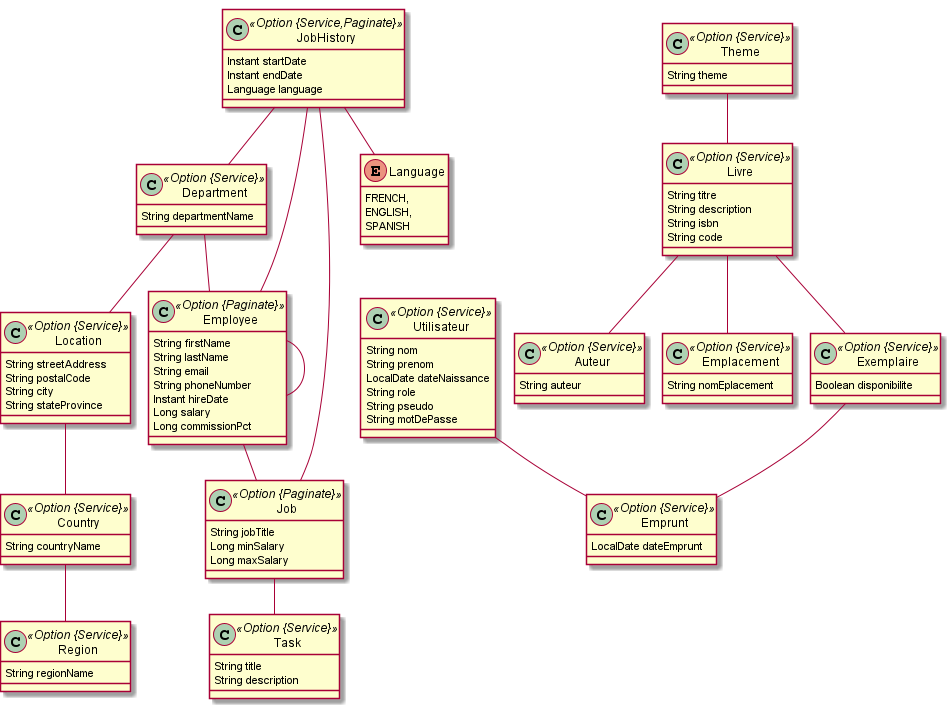
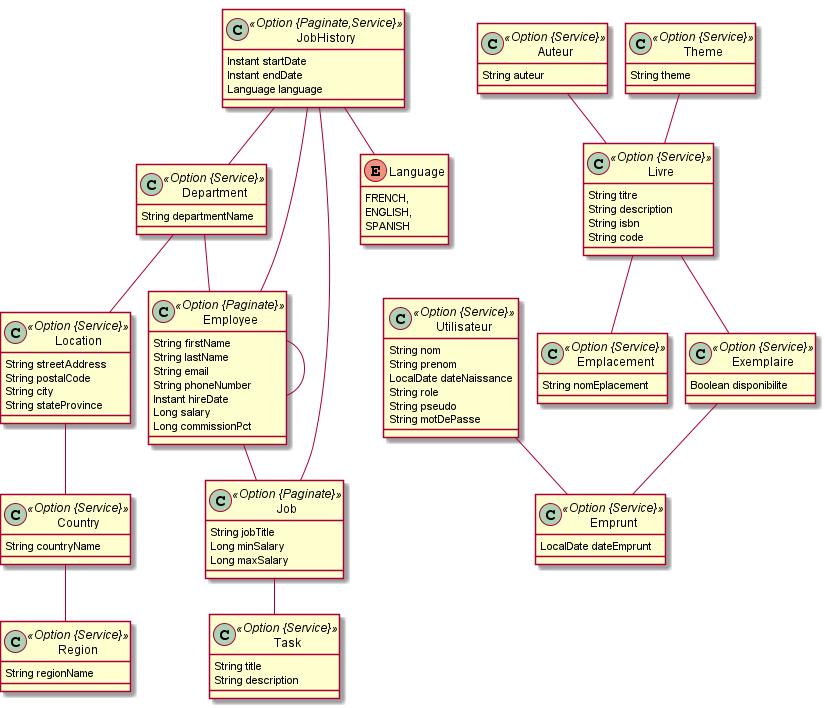
bdd change

diff --git a/src/main/webapp/app/entities/livre/livre-update.component.ts b/src/main/webapp/app/entities/livre/livre-update.component.ts
@@ -8,14 +8,14 @@ import { map } from 'rxjs/operators';
 
 import { ILivre, Livre } from 'app/shared/model/livre.model';
 import { LivreService } from './livre.service';
-import { IAuteur } from 'app/shared/model/auteur.model';
-import { AuteurService } from 'app/entities/auteur/auteur.service';
 import { IEmplacement } from 'app/shared/model/emplacement.model';
 import { EmplacementService } from 'app/entities/emplacement/emplacement.service';
 import { ITheme } from 'app/shared/model/theme.model';
 import { ThemeService } from 'app/entities/theme/theme.service';
+import { IAuteur } from 'app/shared/model/auteur.model';
+import { AuteurService } from 'app/entities/auteur/auteur.service';
 
-type SelectableEntity = IAuteur | IEmplacement | ITheme;
+type SelectableEntity = IEmplacement | ITheme | IAuteur;
 
 @Component({
   selector: 'jhi-livre-update',
@@ -23,9 +23,9 @@ type SelectableEntity = IAuteur | IEmplacement | ITheme;
 })
 export class LivreUpdateComponent implements OnInit {
   isSaving = false;
-  auteurs: IAuteur[] = [];
   emplacements: IEmplacement[] = [];
   themes: ITheme[] = [];
+  auteurs: IAuteur[] = [];
 
   editForm = this.fb.group({
     id: [],
@@ -33,16 +33,16 @@ export class LivreUpdateComponent implements OnInit {
     description: [null, [Validators.required]],
     isbn: [null, [Validators.required]],
     code: [null, [Validators.required]],
-    auteur: [],
     emplacement: [],
     theme: [],
+    auteur: [],
   });
 
   constructor(
     protected livreService: LivreService,
-    protected auteurService: AuteurService,
     protected emplacementService: EmplacementService,
     protected themeService: ThemeService,
+    protected auteurService: AuteurService,
     protected activatedRoute: ActivatedRoute,
     private fb: FormBuilder
   ) {}
@@ -50,28 +50,6 @@ export class LivreUpdateComponent implements OnInit {
   ngOnInit(): void {
     this.activatedRoute.data.subscribe(({ livre }) => {
       this.updateForm(livre);
-
-      this.auteurService
-        .query({ filter: 'livre-is-null' })
-        .pipe(
-          map((res: HttpResponse<IAuteur[]>) => {
-            return res.body || [];
-          })
-        )
-        .subscribe((resBody: IAuteur[]) => {
-          if (!livre.auteur || !livre.auteur.id) {
-            this.auteurs = resBody;
-          } else {
-            this.auteurService
-              .find(livre.auteur.id)
-              .pipe(
-                map((subRes: HttpResponse<IAuteur>) => {
-                  return subRes.body ? [subRes.body].concat(resBody) : resBody;
-                })
-              )
-              .subscribe((concatRes: IAuteur[]) => (this.auteurs = concatRes));
-          }
-        });
 
       this.emplacementService
         .query({ filter: 'livre-is-null' })
@@ -96,6 +74,8 @@ export class LivreUpdateComponent implements OnInit {
         });
 
       this.themeService.query().subscribe((res: HttpResponse<ITheme[]>) => (this.themes = res.body || []));
+
+      this.auteurService.query().subscribe((res: HttpResponse<IAuteur[]>) => (this.auteurs = res.body || []));
     });
   }
 
@@ -106,9 +86,9 @@ export class LivreUpdateComponent implements OnInit {
       description: livre.description,
       isbn: livre.isbn,
       code: livre.code,
-      auteur: livre.auteur,
       emplacement: livre.emplacement,
       theme: livre.theme,
+      auteur: livre.auteur,
     });
   }
 
@@ -134,9 +114,9 @@ export class LivreUpdateComponent implements OnInit {
       description: this.editForm.get(['description'])!.value,
       isbn: this.editForm.get(['isbn'])!.value,
       code: this.editForm.get(['code'])!.value,
-      auteur: this.editForm.get(['auteur'])!.value,
       emplacement: this.editForm.get(['emplacement'])!.value,
       theme: this.editForm.get(['theme'])!.value,
+      auteur: this.editForm.get(['auteur'])!.value,
     };
   }
 

diff --git a/src/main/webapp/app/entities/livre/livre-update.component.html b/src/main/webapp/app/entities/livre/livre-update.component.html
@@ -60,14 +60,6 @@
                 </div>
 
                 <div class="form-group">
-                    <label class="form-control-label" jhiTranslate="jhdemoApp.livre.auteur" for="field_auteur">Auteur</label>
-                    <select class="form-control" id="field_auteur" name="auteur" formControlName="auteur">
-                        <option [ngValue]="null"></option>
-                        <option [ngValue]="auteurOption.id === editForm.get('auteur')!.value?.id ? editForm.get('auteur')!.value : auteurOption" *ngFor="let auteurOption of auteurs; trackBy: trackById">{{ auteurOption.id }}</option>
-                    </select>
-                </div>
-
-                <div class="form-group">
                     <label class="form-control-label" jhiTranslate="jhdemoApp.livre.emplacement" for="field_emplacement">Emplacement</label>
                     <select class="form-control" id="field_emplacement" name="emplacement" formControlName="emplacement">
                         <option [ngValue]="null"></option>
@@ -80,6 +72,14 @@
                     <select class="form-control" id="field_theme" name="theme" formControlName="theme">
                         <option [ngValue]="null"></option>
                         <option [ngValue]="themeOption.id === editForm.get('theme')!.value?.id ? editForm.get('theme')!.value : themeOption" *ngFor="let themeOption of themes; trackBy: trackById">{{ themeOption.id }}</option>
+                    </select>
+                </div>
+
+                <div class="form-group">
+                    <label class="form-control-label" jhiTranslate="jhdemoApp.livre.auteur" for="field_auteur">Auteur</label>
+                    <select class="form-control" id="field_auteur" name="auteur" formControlName="auteur">
+                        <option [ngValue]="null"></option>
+                        <option [ngValue]="auteurOption.id === editForm.get('auteur')!.value?.id ? editForm.get('auteur')!.value : auteurOption" *ngFor="let auteurOption of auteurs; trackBy: trackById">{{ auteurOption.id }}</option>
                     </select>
                 </div>
             </div>

diff --git a/src/main/webapp/app/entities/livre/livre.component.html b/src/main/webapp/app/entities/livre/livre.component.html
@@ -27,9 +27,9 @@
                     <th scope="col" ><span jhiTranslate="jhdemoApp.livre.description">Description</span></th>
                     <th scope="col" ><span jhiTranslate="jhdemoApp.livre.isbn">Isbn</span></th>
                     <th scope="col" ><span jhiTranslate="jhdemoApp.livre.code">Code</span></th>
-                    <th scope="col" ><span jhiTranslate="jhdemoApp.livre.auteur">Auteur</span></th>
                     <th scope="col" ><span jhiTranslate="jhdemoApp.livre.emplacement">Emplacement</span></th>
                     <th scope="col" ><span jhiTranslate="jhdemoApp.livre.theme">Theme</span></th>
+                    <th scope="col" ><span jhiTranslate="jhdemoApp.livre.auteur">Auteur</span></th>
                     <th scope="col"></th>
                 </tr>
             </thead>
@@ -41,11 +41,6 @@
                     <td>{{ livre.isbn }}</td>
                     <td>{{ livre.code }}</td>
                     <td>
-                        <div *ngIf="livre.auteur">
-                            <a [routerLink]="['/auteur', livre.auteur?.id, 'view']" >{{ livre.auteur?.id }}</a>
-                        </div>
-                    </td>
-                    <td>
                         <div *ngIf="livre.emplacement">
                             <a [routerLink]="['/emplacement', livre.emplacement?.id, 'view']" >{{ livre.emplacement?.id }}</a>
                         </div>
@@ -53,6 +48,11 @@
                     <td>
                         <div *ngIf="livre.theme">
                             <a [routerLink]="['/theme', livre.theme?.id, 'view']" >{{ livre.theme?.id }}</a>
+                        </div>
+                    </td>
+                    <td>
+                        <div *ngIf="livre.auteur">
+                            <a [routerLink]="['/auteur', livre.auteur?.id, 'view']" >{{ livre.auteur?.id }}</a>
                         </div>
                     </td>
                     <td class="text-right">

diff --git a/src/main/webapp/app/entities/livre/livre-detail.component.html b/src/main/webapp/app/entities/livre/livre-detail.component.html
@@ -24,12 +24,6 @@
                 <dd>
                     <span>{{ livre.code }}</span>
                 </dd>
-                <dt><span jhiTranslate="jhdemoApp.livre.auteur">Auteur</span></dt>
-                <dd>
-                    <div *ngIf="livre.auteur">
-                        <a [routerLink]="['/auteur', livre.auteur?.id, 'view']">{{ livre.auteur?.id }}</a>
-                    </div>
-                </dd>
                 <dt><span jhiTranslate="jhdemoApp.livre.emplacement">Emplacement</span></dt>
                 <dd>
                     <div *ngIf="livre.emplacement">
@@ -40,6 +34,12 @@
                 <dd>
                     <div *ngIf="livre.theme">
                         <a [routerLink]="['/theme', livre.theme?.id, 'view']">{{ livre.theme?.id }}</a>
+                    </div>
+                </dd>
+                <dt><span jhiTranslate="jhdemoApp.livre.auteur">Auteur</span></dt>
+                <dd>
+                    <div *ngIf="livre.auteur">
+                        <a [routerLink]="['/auteur', livre.auteur?.id, 'view']">{{ livre.auteur?.id }}</a>
                     </div>
                 </dd>
             </dl>

diff --git a/src/main/webapp/app/shared/model/livre.model.ts b/src/main/webapp/app/shared/model/livre.model.ts
@@ -1,7 +1,7 @@
-import { IAuteur } from 'app/shared/model/auteur.model';
 import { IEmplacement } from 'app/shared/model/emplacement.model';
 import { IExemplaire } from 'app/shared/model/exemplaire.model';
 import { ITheme } from 'app/shared/model/theme.model';
+import { IAuteur } from 'app/shared/model/auteur.model';
 
 export interface ILivre {
   id?: number;
@@ -9,10 +9,10 @@ export interface ILivre {
   description?: string;
   isbn?: string;
   code?: string;
-  auteur?: IAuteur;
   emplacement?: IEmplacement;
   exemplaires?: IExemplaire[];
   theme?: ITheme;
+  auteur?: IAuteur;
 }
 
 export class Livre implements ILivre {
@@ -22,9 +22,9 @@ export class Livre implements ILivre {
     public description?: string,
     public isbn?: string,
     public code?: string,
-    public auteur?: IAuteur,
     public emplacement?: IEmplacement,
     public exemplaires?: IExemplaire[],
-    public theme?: ITheme
+    public theme?: ITheme,
+    public auteur?: IAuteur
   ) {}
 }

diff --git a/src/main/webapp/app/shared/model/auteur.model.ts b/src/main/webapp/app/shared/model/auteur.model.ts
@@ -1,8 +1,11 @@
+import { ILivre } from 'app/shared/model/livre.model';
+
 export interface IAuteur {
   id?: number;
   auteur?: string;
+  livres?: ILivre[];
 }
 
 export class Auteur implements IAuteur {
-  constructor(public id?: number, public auteur?: string) {}
+  constructor(public id?: number, public auteur?: string, public livres?: ILivre[]) {}
 }

diff --git a/src/main/java/com/ynov/jh/demo/domain/Livre.java b/src/main/java/com/ynov/jh/demo/domain/Livre.java
@@ -44,10 +44,6 @@ public class Livre implements Serializable {
 
     @OneToOne
     @JoinColumn(unique = true)
-    private Auteur auteur;
-
-    @OneToOne
-    @JoinColumn(unique = true)
     private Emplacement emplacement;
 
     @OneToMany(mappedBy = "livre")
@@ -57,6 +53,10 @@ public class Livre implements Serializable {
     @ManyToOne
     @JsonIgnoreProperties(value = "livres", allowSetters = true)
     private Theme theme;
+
+    @ManyToOne
+    @JsonIgnoreProperties(value = "livres", allowSetters = true)
+    private Auteur auteur;
 
     // jhipster-needle-entity-add-field - JHipster will add fields here
     public Long getId() {
@@ -119,19 +119,6 @@ public class Livre implements Serializable {
         this.code = code;
     }
 
-    public Auteur getAuteur() {
-        return auteur;
-    }
-
-    public Livre auteur(Auteur auteur) {
-        this.auteur = auteur;
-        return this;
-    }
-
-    public void setAuteur(Auteur auteur) {
-        this.auteur = auteur;
-    }
-
     public Emplacement getEmplacement() {
         return emplacement;
     }
@@ -181,6 +168,19 @@ public class Livre implements Serializable {
 
     public void setTheme(Theme theme) {
         this.theme = theme;
+    }
+
+    public Auteur getAuteur() {
+        return auteur;
+    }
+
+    public Livre auteur(Auteur auteur) {
+        this.auteur = auteur;
+        return this;
+    }
+
+    public void setAuteur(Auteur auteur) {
+        this.auteur = auteur;
     }
     // jhipster-needle-entity-add-getters-setters - JHipster will add getters and setters here
 

diff --git a/src/main/java/com/ynov/jh/demo/domain/Auteur.java b/src/main/java/com/ynov/jh/demo/domain/Auteur.java
@@ -8,6 +8,8 @@ import javax.persistence.*;
 import javax.validation.constraints.*;
 
 import java.io.Serializable;
+import java.util.HashSet;
+import java.util.Set;
 
 /**
  * The Auteur entity.\n@author A true hipster
@@ -29,6 +31,10 @@ public class Auteur implements Serializable {
     @Column(name = "auteur", nullable = false)
     private String auteur;
 
+    @OneToMany(mappedBy = "auteur")
+    @Cache(usage = CacheConcurrencyStrategy.READ_WRITE)
+    private Set<Livre> livres = new HashSet<>();
+
     // jhipster-needle-entity-add-field - JHipster will add fields here
     public Long getId() {
         return id;
@@ -49,6 +55,31 @@ public class Auteur implements Serializable {
 
     public void setAuteur(String auteur) {
         this.auteur = auteur;
+    }
+
+    public Set<Livre> getLivres() {
+        return livres;
+    }
+
+    public Auteur livres(Set<Livre> livres) {
+        this.livres = livres;
+        return this;
+    }
+
+    public Auteur addLivre(Livre livre) {
+        this.livres.add(livre);
+        livre.setAuteur(this);
+        return this;
+    }
+
+    public Auteur removeLivre(Livre livre) {
+        this.livres.remove(livre);
+        livre.setAuteur(null);
+        return this;
+    }
+
+    public void setLivres(Set<Livre> livres) {
+        this.livres = livres;
     }
     // jhipster-needle-entity-add-getters-setters - JHipster will add getters and setters here
 

diff --git a/src/main/java/com/ynov/jh/demo/config/CacheConfiguration.java b/src/main/java/com/ynov/jh/demo/config/CacheConfiguration.java
@@ -71,6 +71,7 @@ public class CacheConfiguration {
             createCache(cm, com.ynov.jh.demo.domain.Utilisateur.class.getName() + ".emprunts");
             createCache(cm, com.ynov.jh.demo.domain.Auteur.class.getName() + ".livres");
             createCache(cm, com.ynov.jh.demo.domain.Theme.class.getName() + ".livres");
+            createCache(cm, com.ynov.jh.demo.domain.Livre.class.getName() + ".auteurs");
             // jhipster-needle-ehcache-add-entry
         };
     }
